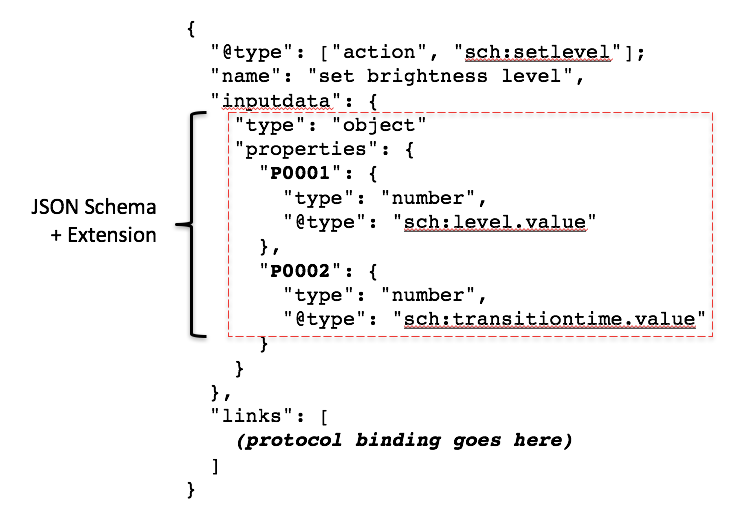
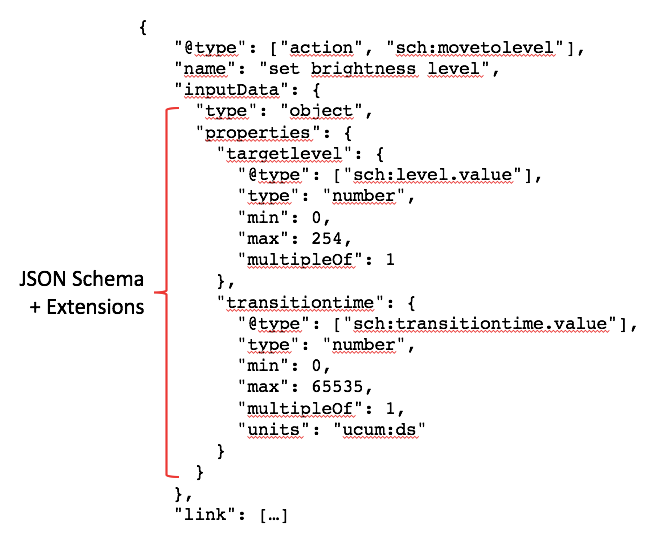
Updated the protocol binding section
Updates as per the TD meeting June 30
Removed mapping section
changed integration patterns to architecture
updated examples

diff --git a/current-practices/protocol-binding-templates/html/protocolbindings.html b/current-practices/protocol-binding-templates/html/protocolbindings.html
@@ -88,8 +88,15 @@
     <section>
       <h2>Assumptions and Design Principles</h2>
 
+      <section>
+      <h3>Thing Description</h3>
+      <p>
+<a href="#fig-td-example"></a> below is an example Thing Description, illustrating two parts. The upper part contains is a description of an interaction, and the lower part is an associated link, which contains the protocol binding.
+      </p>
+      </section>
+      
 	  <figure id="fig-td-example">
-		<img src="images/td-example.png" style="width:75%"  />
+		<img src="images/td-example.png" style="width:95%"  />
     <figcaption>Example of a Thing Description</figcaption>
       </figure>
       
@@ -101,14 +108,14 @@ The interaction description part of a Thing Description describes an event, acti
       </section>
       
 	  <figure id="fig-interaction">
-		<img src="images/interaction-description.png" style="width:75%"  />
+		<img src="images/interaction-description.png" style="width:65%"  />
     <figcaption>Interaction Description Part</figcaption>
       </figure>
       
       <section>
       <h3>Protocol Binding</h3>
       <p> 
-Protocol bindings map abstract WoT interactions to concrete protocol operations. There is currently a set of generic REST protocol bindings for HTTP and CoAP, which are defined in the Current Practices document. The default protocol binding is determined by the URI scheme of the link (http or coap), and follows a well-defined REST API for events, actions, and properties.
+Protocol bindings map abstract WoT interactions to concrete protocol operations. The "link" block provides one or more links that point to entry points used to initiate the protocol operations. 
       </p>
       </section>
       
@@ -120,7 +127,7 @@ Protocol bindings map abstract WoT interactions to concrete protocol operations.
       <section>
       <h3>Protocol Adaptation</h3>
       <p>
-Device protocols from various standards organizations have peculiar patterns for exposing the low level "traits" that the protocol uses to encapsulate and communicate information. 
+Device protocols from various standards organizations have peculiar patterns for exposing the device features that the protocol uses to encapsulate and communicate information. 
       </p>
       <p>
 For example, OCF Resource Types expose a REST API that uses IETF concepts of Resource Type (rt) and Interface Type (if). By contrast, LWM2M/IPSO Smart Objects expose an hierarchy of object ID (collections) and resource ID (items) where the ID numbers provide the semantic identification. 
@@ -133,10 +140,13 @@ These may all use a common communication protocol like CoAP, and representation 
       <section>
       <h3>Discovery</h3>
       <p>
-Discovery of things and traits that map to TD interactions is outside the scope of protocol bindings as currently defined; in this specification we only cover the event, action, property part of the interaction model. 
+Discovery of things and features of things that map to TD interactions is outside the scope of protocol bindings as currently defined; in this specification we only cover the event, action, property part of the interaction model. 
       </p>
       <p>
 It is assumed that discovery of things on the connected device ecosystem results in a set of discoverable Thing Description instances, corresponding to the discovered things, and will then use the TD discovery mechanisms already defined in the W3C WoT WG/IG.
+      </p>
+      <p>
+For example, there could be a discovery process for each device ecosystem that finds new devices, creates TD instances, and publishes them to a TD directory.
       </p>
       </section>
 
@@ -185,7 +195,7 @@ The interaction description contains the interaction type, additional semantic a
       </p>
       
 	  <figure id="fig-interaction-spec">
-		<img src="images/interaction-description.png" style="width:75%"  />
+		<img src="images/interaction-description.png" style="width:65%"  />
         <figcaption>Interaction Description</figcaption>
       </figure>
       
@@ -211,32 +221,27 @@ The "link" element of an interaction description points to and describes how the
       
 
       <p>
-For things that expose the low level protocol traits in a REST and REST-like API, the Protocol Binding is constructed somewhat like an HTML submission form. Metadata in the binding template describes which REST method to use, and any other options that are required to be transmitted in the request or parsed from the response.
+For things that expose the device features in a REST and REST-like API, the Protocol Binding is constructed somewhat like an HTML submission form. Metadata in the binding template describes which REST method to use, and any other options that are required to be transmitted in the request or parsed from the response.
       </p>
       <p>
-The example OCF protocol binding contains values for Resource Type (rt) and Interface Type (if) required to interact with the appropriate low level traits.
+The example OCF protocol binding contains values for Resource Type (rt) and Interface Type (if) required to interact with the appropriate device features.
       </p>
       </section>      
 
     </section>
 
     <section>
-      <h2>Integration Patterns</h2>
+      <h2>Architecture</h2>
 
-	  <figure id="fig-integration-patterns">
-		<img src="images/integration-patterns.png" style="width:80%"  />
-        <figcaption>Integration Patterns</figcaption>
-      </figure>
-      
       <section>
-      <h3>WoT Client Proxy Integration Pattern</h3>
+      <h3>WoT Servient Architecture</h3>
       <p> 
 In the client Proxy integration pattern, the WoT Consumed Thing interface is exposed as a proxy for the device or connected thing. Application middleware, for example node-wot, consumes the thing description, including the protocol binding teplates. 
       </p>
       
-	  <figure id="fig-client-proxy">
-		<img src="images/client-proxy.png" style="width:50%"  />
-        <figcaption>Client Proxy Pattern</figcaption>
+	  <figure id="fig-arch-context">
+		<img src="images/arch-context.png" style="width:80%"  />
+        <figcaption>Integration Architecture</figcaption>
       </figure>
       
       <p>
@@ -244,87 +249,13 @@ When an interaction is invoked, the application middleware fills out the templat
       </p>
       </section>
 
-      <section>
-      <h3>WoT Server Proxy Integration Pattern</h3>
-      <p> 
-In the server proxy integration pattern, the Thing Description and Protocol Binding templates are consumed by application middleware which exposes the low level device traits using the WoT Exposed Thing interface as a proxy exposing the traits using the default generic WoT HTTP or CoAP protocol binding.
-      </p>
-
-	  <figure id="fig-server-proxy">
-		<img src="images/server-proxy.png" style="width:50%"  />
-        <figcaption>Server Proxy Pattern</figcaption>
-      </figure>
-      
-      <p>
-When an interaction is invoked using the WoT exposed thing, the middleware proxy constructs a request using the protocol binding template and processes the response using the template. The response data are returned to the requesting WoT client using the generic WoT protocol.
-      </p>
-      </section>
-
     </section>
-    
+        
     <section>
-      <h2>Mapping traits to TD interactions</h2>
- 
-      <section>
-      <h3>Thing traits vs. actions, events, and properties</h3>
-      <p> 
-The traits exposed by things from different device ecosystems vary considerably in the structure of the interactions and the level of semantic identification of their affordances. For example, OCF devices expose a REST API with asynchronous notification (CRUD+N) in which actions are invoked simply by setting property values. There are batch update options that allow multiple parameters to be passed using this pattern. 
-      </p>
-      <p>
-Since actions are not formally defined in all device ecosystems, but may be composed from updates and options, there needs to be a high level definition for actions that can be then mapped to device traits. Likewise, WoT Property get/set operations may need to have additional settings to correctly interact with the low level traits, for example using Observe/Notify or Publish/Subscribe for asynchronous interactions and event subscriptions.
-      </p>
-      </section>
-      
-      <section>
-      <h3>Thing Capabilities</h3>
-      <p> 
-For the sake of interoperability, there need to be some standardized actions defined, for example to dim a light, or to turn something on and off.
-      </p>
-      <p>
-One approach is to create abstract capabilities that define properties and related actions and events, to accomplish a single purpose. For example, the capability to turn something on and off would be represented by a state variable property with a boolean type, a property for a delay value, and some actions to turn on, turn off, toggle, delay turn off, etc. The low level traits that are exposed by the devices are then mapped to capabilities using the TD with protocol bindings. 
-      </p>
-      <p>
-For example, the on/off capability "switch" is defined with a state property of type boolean, and two actions, one for turning on and one for turning off. The protocol binding specifies that a boolean value of true is applied to the state property for the turn on action, and a boolean value of false is applied for a turn off action.
-      </p>
-      <p>
-These capabilities may be defined as constructions of semantic identifiers from various ontologies and vocabularies. 
-      </p>
-      <p>
-The examples are based on on/off, level control, and motion sensing capabilities with their respective events, actions, and properties. As illustrated by the light example, the capabilities may be composed into a TD, providing a thing that has multiple capabilities exposed through a set of well known event, action, and property types and application classes.
-      </p>
-      </section>
-
-    </section>
-    
-    <section class='appendix'>
-      <h2>Glossary</h2>
-      <p>
-Thing Description
-      </p>
-      <p>
-Interaction Description
-      </p>
-      <p>
-Protocol Binding
-      </p>
-      <p>
-Semantic Annotation
-      </p>
-      <p>
-Thing traits
-      </p>
-      <p>
-Capabilities
-      </p>
-      <p>
-CRUD+N
-      </p>
-    </section>
-    
-    <section class='appendix'>
       <h2>Examples</h2>
       <p>
-      <a href="https://github.com/mjkoster/wot-protocol-binding/tree/master/td-examples-plugfest">TD Examples for Plugfest</a>
+      Example TD files that implement the features described in this document are available for download or review at  
+      <a href="https://github.com/w3c/wot/tree/master/current-practices/protocol-binding-templates/td-examples-plugfest">TD Examples for Plugfest</a>
       </p>
     </section>
   </body>
